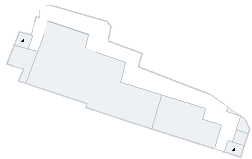
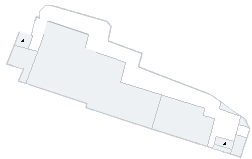
다향관 실내 노드 구현

diff --git a/lib/save/save.dart b/lib/save/save.dart
@@ -1552,53 +1552,53 @@ void initGraph(Graph graph) {
   graph.addEdge("팔정도 혜화관3", "혜화관 팔정도 계단 위", 131, 131, "평지", "차도");
   graph.addEdge("혜화관 팔정도 계단 위", "팔정도 혜화관3", 131, 131, "평지", "차도");
 //172
-  graph.addEdge("팔정도 우측 상단2", "다향관 오른쪽 입구 앞", 31, 31, "평지", "차도",
-      node2X: 1551,
-      node2Y: 2546,
+  graph.addEdge("팔정도 우측 상단2", "다향관 3층 오른쪽 입구 앞", 17.4929, 17.4929, "평지", "차도",
+      node2X: 1567,
+      node2Y: 2550,
       isInside2: 0,
       building2: "실외",
       showRoute2: false);
-  graph.addEdge("다향관 오른쪽 입구 앞", "팔정도 우측 상단2", 31, 31, "평지", "차도");
+  graph.addEdge("다향관 3층 오른쪽 입구 앞", "팔정도 우측 상단2", 17.4929, 17.4929, "평지", "차도");
 //173
-  graph.addEdge("다향관 오른쪽 입구 앞", "다향관 오른쪽 입구", 17, 17, "평지", "도보",
-      node2X: 1555,
-      node2Y: 2529,
+  graph.addEdge("다향관 3층 오른쪽 입구 앞", "다향관 3층 오른쪽 입구", 16.7631, 16.7631, "평지", "도보",
+      node2X: 1572,
+      node2Y: 2534,
       isInside2: 0,
       building2: "실외",
       showRoute2: false);
-  graph.addEdge("다향관 오른쪽 입구", "다향관 오른쪽 입구 앞", 17, 17, "평지", "도보");
+  graph.addEdge("다향관 3층 오른쪽 입구", "다향관 3층 오른쪽 입구 앞", 16.7631, 16.7631, "평지", "도보");
 //174
-  graph.addEdge("다향관 오른쪽 입구 앞", "팔정도 위", 114, 114, "평지", "차도",
+  graph.addEdge("다향관 3층 오른쪽 입구 앞", "팔정도 위", 130.648, 130.648, "평지", "차도",
       node2X: 1442,
       node2Y: 2512,
       isInside2: 0,
       building2: "실외",
       showRoute2: false);
-  graph.addEdge("팔정도 위", "다향관 오른쪽 입구 앞", 114, 114, "평지", "차도");
+  graph.addEdge("팔정도 위", "다향관 3층 오른쪽 입구 앞", 130.648, 130.648, "평지", "차도");
 //175
-  graph.addEdge("팔정도 위", "다향관 3층 입구 앞", 108, 108, "평지", "차도",
+  graph.addEdge("팔정도 위", "다향관 3층 왼쪽 계단 입구 앞", 108, 108, "평지", "차도",
       node2X: 1339,
       node2Y: 2478,
       isInside2: 0,
       building2: "실외",
       showRoute2: false);
-  graph.addEdge("다향관 3층 입구 앞", "팔정도 위", 108, 108, "평지", "차도");
+  graph.addEdge("다향관 3층 왼쪽 계단 입구 앞", "팔정도 위", 108, 108, "평지", "차도");
 //202
-  graph.addEdge("다향관 3층 입구 앞", "다향관 3층 입구", 35, 35, "평지", "도보",
+  graph.addEdge("다향관 3층 왼쪽 계단 입구 앞", "다향관 3층 왼쪽 계단 입구", 35, 35, "평지", "도보",
       node2X: 1353,
       node2Y: 2446,
       isInside2: 0,
       building2: "실외",
       showRoute2: false);
-  graph.addEdge("다향관 3층 입구", "다향관 3층 입구 앞", 35, 35, "평지", "도보");
+  graph.addEdge("다향관 3층 왼쪽 계단 입구", "다향관 3층 왼쪽 계단 입구 앞", 35, 35, "평지", "도보");
 //176
-  graph.addEdge("다향관 3층 입구 앞", "팔정도 좌측 상단", 35, 35, "평지", "차도",
+  graph.addEdge("다향관 3층 왼쪽 계단 입구 앞", "팔정도 좌측 상단", 35, 35, "평지", "차도",
       node2X: 1305,
       node2Y: 2469,
       isInside2: 0,
       building2: "실외",
       showRoute2: false);
-  graph.addEdge("팔정도 좌측 상단", "다향관 3층 입구 앞", 35, 35, "평지", "차도");
+  graph.addEdge("팔정도 좌측 상단", "다향관 3층 왼쪽 계단 입구 앞", 35, 35, "평지", "차도");
 //177
   graph.addEdge("팔정도 좌측 상단", "본관 3층 오른쪽 입구 앞", 10, 10, "평지", "차도",
       node2X: 1300,
@@ -1769,29 +1769,37 @@ void initGraph(Graph graph) {
       showRoute2: false);
   graph.addEdge("팔정도 본관 계단 위", "팔정도 좌측 상단", 48, 48, "평지", "차도");
 //207
-  graph.addEdge("팔정도 본관 계단 위", "다향관 2층 입구 앞", 29, 29, "내리막", "차도",
-      node2X: 1321,
-      node2Y: 2387,
+  graph.addEdge("팔정도 본관 계단 위", "다향관 2층 입구 앞", 21.8358, 21.8358, "내리막", "차도",
+      node2X: 1324,
+      node2Y: 2396,
       isInside2: 0,
       building2: "실외",
       showRoute2: false);
-  graph.addEdge("다향관 2층 입구 앞", "팔정도 본관 계단 위", 54, 54, "오르막", "차도");
+  graph.addEdge("다향관 2층 입구 앞", "팔정도 본관 계단 위", 40.942, 40.942, "오르막", "차도");
 //208
-  graph.addEdge("다향관 2층 입구 앞", "다향관 2층 입구", 53, 53, "평지", "도보",
-      node2X: 1371,
-      node2Y: 2404,
+  graph.addEdge("다향관 2층 입구 앞", "다향관 2층 왼쪽 계단 입구 앞", 41.7612, 41.7612, "평지", "도보",
+      node2X: 1364,
+      node2Y: 2408,
       isInside2: 0,
       building2: "실외",
       showRoute2: false);
-  graph.addEdge("다향관 2층 입구", "다향관 2층 입구 앞", 53, 53, "평지", "도보");
+  graph.addEdge("다향관 2층 왼쪽 계단 입구 앞", "다향관 2층 입구 앞", 41.7612, 41.7612, "평지", "도보");
+  //630
+  graph.addEdge("다향관 2층 왼쪽 계단 입구 앞", "다향관 2층 왼쪽 계단 입구", 4.12311, 4.12311, "평지", "도보",
+      node2X: 1363,
+      node2Y: 2412,
+      isInside2: 0,
+      building2: "실외",
+      showRoute2: false);
+  graph.addEdge("다향관 2층 왼쪽 계단 입구", "다향관 2층 왼쪽 계단 입구 앞", 4.12311, 4.12311, "평지", "도보");
 //209
-  graph.addEdge("다향관 2층 입구 앞", "다향관 1층 입구 앞", 26, 26, "내리막", "차도",
+  graph.addEdge("다향관 2층 입구 앞", "다향관 1층 입구 앞", 33.6856, 33.6856, "내리막", "차도",
       node2X: 1321,
       node2Y: 2354,
       isInside2: 0,
       building2: "실외",
       showRoute2: false);
-  graph.addEdge("다향관 1층 입구 앞", "다향관 2층 입구 앞", 50, 50, "오르막", "차도");
+  graph.addEdge("다향관 1층 입구 앞", "다향관 2층 입구 앞", 63.1605, 63.1605, "오르막", "차도");
 //210
   graph.addEdge("다향관 1층 입구 앞", "다향관 1층 입구 앞2", 30, 30, "내리막", "도보",
       node2X: 1357,
@@ -1800,14 +1808,22 @@ void initGraph(Graph graph) {
       building2: "실외",
       showRoute2: false);
   graph.addEdge("다향관 1층 입구 앞2", "다향관 1층 입구 앞", 56, 56, "오르막", "도보");
-//211
-  graph.addEdge("다향관 1층 입구 앞2", "다향관 1층 입구", 26, 26, "내리막", "도보",
-      node2X: 1380,
-      node2Y: 2387,
+  //211
+  graph.addEdge("다향관 1층 입구 앞2", "다향관 1층 입구 앞3", 15.284, 15.284, "내리막", "도보",
+      node2X: 1370,
+      node2Y: 2378,
       isInside2: 0,
       building2: "실외",
       showRoute2: false);
-  graph.addEdge("다향관 1층 입구", "다향관 1층 입구 앞2", 49, 49, "오르막", "도보");
+  graph.addEdge("다향관 1층 입구 앞3", "다향관 1층 입구 앞2", 28.6575, 28.6575, "오르막", "도보");
+  //629
+  graph.addEdge("다향관 1층 입구 앞3", "다향관 1층 왼쪽 계단 입구", 34.7131, 34.7131, "평지", "도보",
+      node2X: 1363,
+      node2Y: 2412,
+      isInside2: 0,
+      building2: "실외",
+      showRoute2: false);
+  graph.addEdge("다향관 1층 왼쪽 계단 입구", "다향관 1층 입구 앞3", 34.7131, 34.7131, "평지", "도보");
 //212
   graph.addEdge("다향관 1층 입구 앞", "팔정도 후문 차도1", 80, 80, "내리막", "차도",
       node2X: 1283,
@@ -5457,6 +5473,195 @@ void initGraph(Graph graph) {
   //2층 중도 쪽문
   graph.addEdge("본관 2층 중도 쪽문", "본관", 100000, 100000, "평지", "도보");
   graph.addEdge("본관", "본관 2층 중도 쪽문", 100000, 100000, "평지", "도보");
+  //**************************************************************************
+  //다향관
+  //입구: 1층 왼쪽 계단 입구, 2층 왼쪽 계단 입구, 3층 왼쪽 계단 입구
+  //631
+  graph.addEdge("다향관 1층 왼쪽 계단 입구", "다향관 1층 왼쪽 계단", 8.544, 8.544, "평지", "도보",
+      node2X: 1360,
+      node2Y: 2420,
+      isInside2: 1,
+      building2: "다향관",
+      showRoute2: false);
+  graph.addEdge("다향관 1층 왼쪽 계단", "다향관 1층 왼쪽 계단 입구", 8.544, 8.544, "평지", "도보");
+  //다향관 왼쪽 계단 1층 - 2층 이동
+  graph.addEdge("다향관 1층 왼쪽 계단", "다향관 2층 왼쪽 계단", 30, 30, "계단위", "도보",
+      node2X: 1360,
+      node2Y: 2420,
+      isInside2: 2,
+      building2: "다향관",
+      showRoute2: false);
+  graph.addEdge("다향관 2층 왼쪽 계단", "다향관 1층 왼쪽 계단", 16, 16, "계단아래", "도보");
+  //다향관 왼쪽 계단 2층 - 3층 이동
+  graph.addEdge("다향관 2층 왼쪽 계단", "다향관 3층 왼쪽 계단", 30, 30, "계단위", "도보",
+      node2X: 1360,
+      node2Y: 2420,
+      isInside2: 3,
+      building2: "다향관",
+      showRoute2: false);
+  graph.addEdge("다향관 3층 왼쪽 계단", "다향관 2층 왼쪽 계단", 16, 16, "계단아래", "도보");
+  //632
+  graph.addEdge("다향관 1층 왼쪽 계단", "다향관 1층 입구 안", 12.3693, 12.3693, "평지", "도보",
+      node2X: 1372,
+      node2Y: 2423,
+      isInside2: 1,
+      building2: "다향관",
+      showRoute2: false);
+  graph.addEdge("다향관 1층 입구 안", "다향관 1층 왼쪽 계단", 12.3693, 12.3693, "평지", "도보");
+  //633
+  graph.addEdge("다향관 1층 입구 안", "다향관 1층 길1", 32.8938, 32.8938, "평지", "도보",
+      node2X: 1383,
+      node2Y: 2392,
+      isInside2: 1,
+      building2: "다향관",
+      showRoute2: false);
+  graph.addEdge("다향관 1층 길1", "다향관 1층 입구 안", 32.8938, 32.8938, "평지", "도보");
+  //634
+  graph.addEdge("다향관 1층 길1", "다향관 1층 길2", 55.3624, 55.3624, "평지", "도보",
+      node2X: 1436,
+      node2Y: 2408,
+      isInside2: 1,
+      building2: "다향관",
+      showRoute2: false);
+  graph.addEdge("다향관 1층 길2", "다향관 1층 길1", 55.3624, 55.3624, "평지", "도보");
+  //635
+  graph.addEdge("다향관 1층 길2", "다향관 1층 길3", 16.4924, 16.4924, "평지", "도보",
+      node2X: 1432,
+      node2Y: 2424,
+      isInside2: 1,
+      building2: "다향관",
+      showRoute2: false);
+  graph.addEdge("다향관 1층 길3", "다향관 1층 길2", 16.4924, 16.4924, "평지", "도보");
+  //636
+  graph.addEdge("다향관 1층 길3", "다향관 1층 길4", 40.1622, 40.1622, "평지", "도보",
+      node2X: 1470,
+      node2Y: 2437,
+      isInside2: 1,
+      building2: "다향관",
+      showRoute2: false);
+  graph.addEdge("다향관 1층 길4", "다향관 1층 길3", 40.1622, 40.1622, "평지", "도보");
+  //637
+  graph.addEdge("다향관 1층 길4", "다향관 1층 길5", 20.2237, 20.2237, "평지", "도보",
+      node2X: 1467,
+      node2Y: 2457,
+      isInside2: 1,
+      building2: "다향관",
+      showRoute2: false);
+  graph.addEdge("다향관 1층 길5", "다향관 1층 길4", 20.2237, 20.2237, "평지", "도보");
+  //638
+  graph.addEdge("다향관 1층 길5", "다향관 1층 길6", 86.977, 86.977, "평지", "도보",
+      node2X: 1550,
+      node2Y: 2483,
+      isInside2: 1,
+      building2: "다향관",
+      showRoute2: false);
+  graph.addEdge("다향관 1층 길6", "다향관 1층 길5", 86.977, 86.977, "평지", "도보");
+  //639
+  graph.addEdge("다향관 1층 길6", "다향관 1층 길7", 8.24621, 8.24621, "평지", "도보",
+      node2X: 1548,
+      node2Y: 2491,
+      isInside2: 1,
+      building2: "다향관",
+      showRoute2: false);
+  graph.addEdge("다향관 1층 길7", "다향관 1층 길6", 8.24621, 8.24621, "평지", "도보");
+  //640
+  graph.addEdge("다향관 1층 길7", "다향관 1층 길8", 8.544, 8.544, "평지", "도보",
+      node2X: 1556,
+      node2Y: 2494,
+      isInside2: 1,
+      building2: "다향관",
+      showRoute2: false);
+  graph.addEdge("다향관 1층 길8", "다향관 1층 길7", 8.544, 8.544, "평지", "도보");
+  //641
+  graph.addEdge("다향관 1층 길8", "다향관 1층 오른쪽 계단 앞", 24.0416, 24.0416, "평지", "도보",
+      node2X: 1549,
+      node2Y: 2517,
+      isInside2: 1,
+      building2: "다향관",
+      showRoute2: false);
+  graph.addEdge("다향관 1층 오른쪽 계단 앞", "다향관 1층 길8", 24.0416, 24.0416, "평지", "도보");
+  //642
+  graph.addEdge("다향관 1층 오른쪽 계단 앞", "다향관 1층 오른쪽 계단", 27.0416, 27.0416, "계단위", "도보",
+      node2X: 1566,
+      node2Y: 2523,
+      isInside2: 1,
+      building2: "다향관",
+      showRoute2: false);
+  graph.addEdge("다향관 1층 오른쪽 계단", "다향관 1층 오른쪽 계단 앞", 14.4222, 14.4222, "계단아래", "도보");
+  //다향관 오른쪽 계단 1층 - 2층 이동
+  graph.addEdge("다향관 1층 오른쪽 계단", "다향관 2층 오른쪽 계단", 9.21954, 9.21954, "평지", "도보",
+      node2X: 1568,
+      node2Y: 2514,
+      isInside2: 2,
+      building2: "다향관",
+      showRoute2: false);
+  graph.addEdge("다향관 2층 오른쪽 계단", "다향관 1층 오른쪽 계단", 9.21954, 9.21954, "평지", "도보");
+  //643
+  graph.addEdge("다향관 2층 왼쪽 계단", "다향관 2층 왼쪽 계단 입구", 8.544, 8.544, "평지", "도보");
+  graph.addEdge("다향관 2층 왼쪽 계단 입구", "다향관 2층 왼쪽 계단", 8.544, 8.544, "평지", "도보");
+  //644
+  graph.addEdge("다향관 2층 오른쪽 계단", "다향관 2층 세미나실 오른쪽", 30.9233, 30.9233, "계단위", "도보",
+      node2X: 1548,
+      node2Y: 2509,
+      isInside2: 2,
+      building2: "다향관",
+      showRoute2: false);
+  graph.addEdge("다향관 2층 세미나실 오른쪽", "다향관 2층 오른쪽 계단", 16.4924, 16.4924, "계단아래", "도보");
+  //645
+  graph.addEdge("다향관 2층 세미나실 오른쪽", "다향관 2층 세미나실 왼쪽", 8.544, 8.544, "평지", "도보",
+      node2X: 1545,
+      node2Y: 2517,
+      isInside2: 2,
+      building2: "다향관",
+      showRoute2: false);
+  graph.addEdge("다향관 2층 세미나실 왼쪽", "다향관 2층 세미나실 오른쪽", 8.544, 8.544, "평지", "도보");
+  //646
+  graph.addEdge("다향관 2층 세미나실 왼쪽", "다향관 3층 오른쪽 계단", 26.5801, 26.5801, "계단위", "도보",
+      node2X: 1561,
+      node2Y: 2522,
+      isInside2: 2,
+      building2: "다향관",
+      showRoute2: false);
+  graph.addEdge("다향관 3층 오른쪽 계단", "다향관 2층 세미나실 왼쪽", 14.176, 14.176, "계단아래", "도보");
+  //647
+  graph.addEdge("다향관 3층 오른쪽 계단", "다향관 3층 오른쪽 계단 앞", 23.2863, 23.2863, "계단위", "도보",
+      node2X: 1576,
+      node2Y: 2526,
+      isInside2: 3,
+      building2: "다향관",
+      showRoute2: false);
+  graph.addEdge("다향관 3층 오른쪽 계단 앞", "다향관 3층 오른쪽 계단", 12.4193, 12.4193, "계단아래", "도보");
+  //648
+  graph.addEdge("다향관 3층 오른쪽 계단 앞", "다향관 3층 오른쪽 입구", 8.94427, 8.94427, "평지", "도보");
+  graph.addEdge("다향관 3층 오른쪽 입구", "다향관 3층 오른쪽 계단 앞", 8.94427, 8.94427, "평지", "도보");
+  //649
+  graph.addEdge("다향관 3층 왼쪽 계단 입구", "다향관 3층 왼쪽 계단 입구 안", 12.083, 12.083, "평지", "도보",
+      node2X: 1358,
+      node2Y: 2435,
+      isInside2: 3,
+      building2: "다향관",
+      showRoute2: false);
+  graph.addEdge("다향관 3층 왼쪽 계단 입구 안", "다향관 3층 왼쪽 계단 입구", 12.083, 12.083, "평지", "도보");
+  //650
+  graph.addEdge("다향관 3층 왼쪽 계단 입구 안", "다향관 3층 왼쪽 계단", 15.1327, 15.1327, "평지", "도보");
+  graph.addEdge("다향관 3층 왼쪽 계단", "다향관 3층 왼쪽 계단 입구 안", 15.1327, 15.1327, "평지", "도보");
+  //다향관 1층 왼쪽 계단 입구
+  graph.addEdge("다향관 1층 왼쪽 계단 입구", "다향관", 100000, 100000, "평지", "도보",
+      node2X: 1456,
+      node2Y: 2468,
+      isInside2: 0,
+      building2: "실외",
+      showRoute2: false);
+  graph.addEdge("다향관", "다향관 1층 왼쪽 계단 입구", 100000, 100000, "평지", "도보");
+  //다향관 2층 왼쪽 계단 입구
+  graph.addEdge("다향관 2층 왼쪽 계단 입구", "다향관", 100000, 100000, "평지", "도보");
+  graph.addEdge("다향관", "다향관 2층 왼쪽 계단 입구", 100000, 100000, "평지", "도보");
+  //다향관 3층 왼쪽 계단 입구
+  graph.addEdge("다향관 3층 왼쪽 계단 입구", "다향관", 100000, 100000, "평지", "도보");
+  graph.addEdge("다향관", "다향관 3층 왼쪽 계단 입구", 100000, 100000, "평지", "도보");
+  //다향관 3층 오른쪽 입구
+  graph.addEdge("다향관 3층 오른쪽 입구", "다향관", 100000, 100000, "평지", "도보");
+  graph.addEdge("다향관", "다향관 3층 오른쪽 입구", 100000, 100000, "평지", "도보");
 
 //--------------------------------------------실내 임시 노드-------------------------------
 //      중앙도서관
@@ -5504,24 +5709,6 @@ void initGraph(Graph graph) {
 //옆문
   graph.addEdge("체육관 옆문", "체육관", 100, 100, "평지", "도보");
   graph.addEdge("체육관", "체육관 옆문", 100, 100, "평지", "도보");
-//      다향관
-//다향관 1층 입구
-  graph.addEdge("다향관 1층 입구", "다향관", 100, 100, "평지", "도보",
-      node2X: 1456,
-      node2Y: 2468,
-      isInside2: 0,
-      building2: "실외",
-      showRoute2: false);
-  graph.addEdge("다향관", "다향관 1층 입구", 100, 100, "평지", "도보");
-//다향관 2층 입구
-  graph.addEdge("다향관 2층 입구", "다향관", 100, 100, "평지", "도보");
-  graph.addEdge("다향관", "다향관 2층 입구", 100, 100, "평지", "도보");
-//다향관 3층 입구
-  graph.addEdge("다향관 3층 입구", "다향관", 100, 100, "평지", "도보");
-  graph.addEdge("다향관", "다향관 3층 입구", 100, 100, "평지", "도보");
-//다향관 오른쪽 입구
-  graph.addEdge("다향관 오른쪽 입구", "다향관", 100, 100, "평지", "도보");
-  graph.addEdge("다향관", "다향관 오른쪽 입구", 100, 100, "평지", "도보");
 //      상록원
 //상록원 옆입구
   graph.addEdge("상록원 옆입구", "상록원", 100, 100, "평지", "도보",
